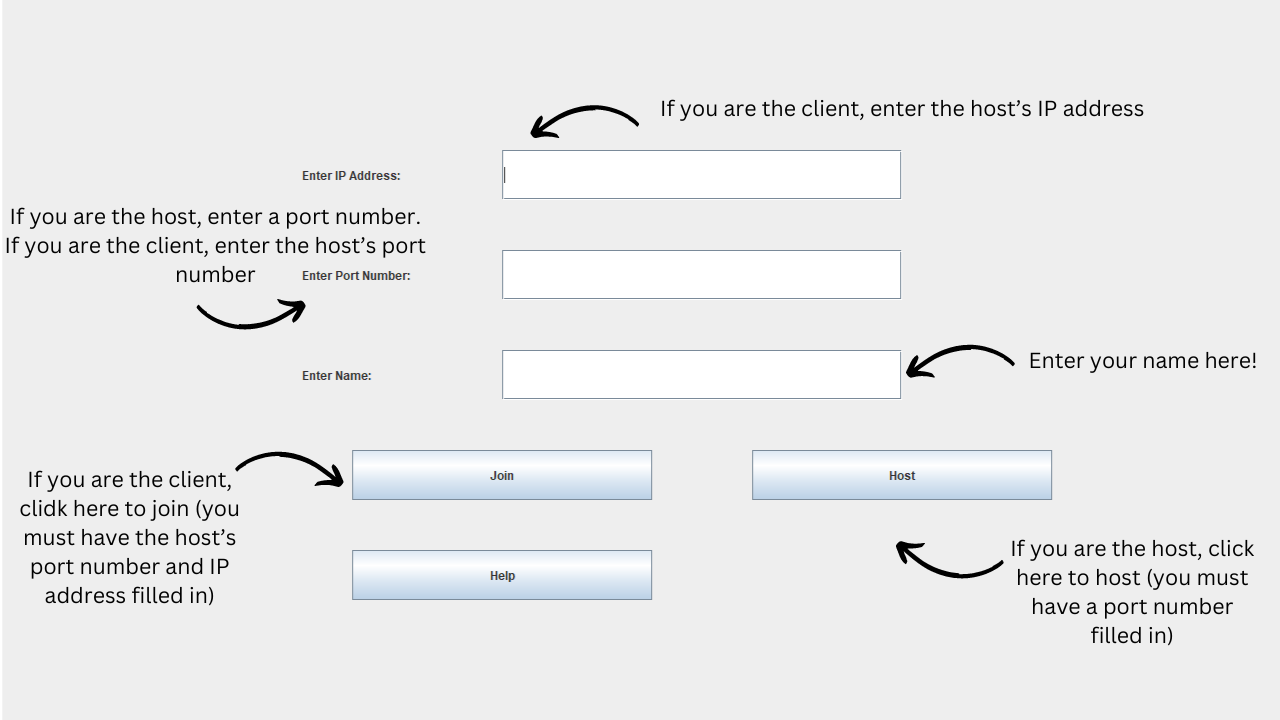
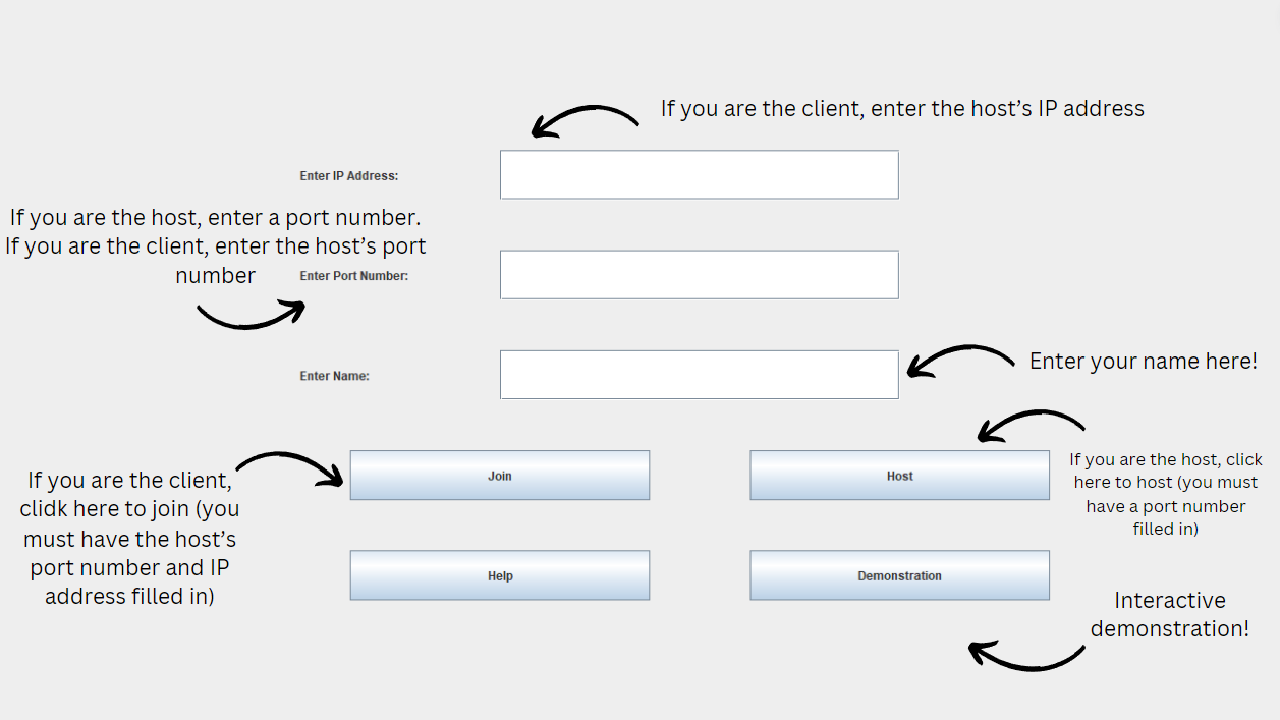
Added: help screens and text restrictions
edited ssmhelp screens, game help screen, interactive demo help screen. Added restrictions to port field and userfield

diff --git a/Connect4.java b/Connect4.java
@@ -14,7 +14,7 @@ public class Connect4 implements ActionListener, MouseListener, MouseMotionListe
 	themesPanel themePanel = new themesPanel();
 	JPanel SSMPanel = new JPanel();
 	ssmhelpscreenpanel helpSSMPanel = new ssmhelpscreenpanel();
-	JPanel helpGamePanel = new JPanel();
+	helpPanel helpGamePanel = new helpPanel();
 	winScreenPanel winPanel = new winScreenPanel();
 
 
@@ -412,6 +412,7 @@ public class Connect4 implements ActionListener, MouseListener, MouseMotionListe
 			intSeconds = intSeconds + 1;
 			dPanel.intSeconds = intSeconds;
 			if(intSeconds >= 6){
+				winPanel.blnWin = true;
 				theFrame.setContentPane(winPanel);
 				theFrame.pack();
 				theFrame.repaint();
@@ -486,6 +487,8 @@ public class Connect4 implements ActionListener, MouseListener, MouseMotionListe
 			winLabel.setText("The Winner is: " +strPlayer1);
 			intPlayer1Score++;
 			P1Score.setText(strPlayer1 + ": " +intPlayer1Score+"W");
+			winPanel.blnWin = true;
+			theBar.setVisible(false);
 			theFrame.setContentPane(winPanel);
 			theFrame.pack();
 			theFrame.repaint();
@@ -493,11 +496,15 @@ public class Connect4 implements ActionListener, MouseListener, MouseMotionListe
 			winLabel.setText("The Winner is: " +strPlayer2);
 			intPlayer2Score++;
 			P2Score.setText(strPlayer2 + ": " +intPlayer2Score+"W");
+			theBar.setVisible(false);
+			winPanel.blnWin = true;
 			theFrame.setContentPane(winPanel);
 			theFrame.pack();
 			theFrame.repaint();
 		}else if(calcs.checkResult().equals("tie")){
 			winLabel.setText("Tie! nobody wins");
+			theBar.setVisible(false);
+			winPanel.blnWin = false;
 			theFrame.setContentPane(winPanel);
 			theFrame.pack();
 			theFrame.repaint();
@@ -579,7 +586,28 @@ public class Connect4 implements ActionListener, MouseListener, MouseMotionListe
 				invalidLabel2.setText("Must input a valid Port Number");
 			}
 		}
-	
+		//Checks length of name
+		if(blnUser == false){
+			String strInput = userField.getText();
+			int intLength = strInput.length();
+			System.out.println(intLength);
+			if(intLength >12){
+				blnUser = true;
+				invalidLabel3.setVisible(true);
+				invalidLabel3.setText("Must be less than 12 characters");
+			}
+		}
+		//checks for Port length
+		if(blnPort == false){
+			String strInput = portField.getText();
+			int intLength = strInput.length();
+			System.out.println(intLength);
+			if(intLength >5){
+				blnUser = true;
+				invalidLabel2.setVisible(true);
+				invalidLabel2.setText("Must be less than 5 numbersh");
+			}
+		}
 		
 		System.out.println("Port: "+blnPort+" IP: "+blnIP+" USER: "+blnUser);
 		//if statments to check conditions and finally return boolean value 
@@ -767,13 +795,14 @@ public class Connect4 implements ActionListener, MouseListener, MouseMotionListe
 		
 		winPanel.add(playAgain);
 		
-		//------------------------------------------------HELP PANELS-------------------------------------------------//
+		//------------------------------------------------HELP PANEL-------------------------------------------------//
 		//Setting up panel and addtional Jcomponents of the panel
 		helpGamePanel.setPreferredSize(new Dimension(1280, 720));
 		helpGamePanel.setLayout(null);
-	
+
 		returnHomeMenu.setSize(300,50);
-		returnHomeMenu.setLocation(750,550);
+		returnHomeMenu.setLocation(100,450);
+		returnHomeMenu.setForeground(Color.BLUE);
 		helpGamePanel.add(returnHomeMenu);
 		returnHomeMenu.addActionListener(this);
 		

diff --git a/demoPanel.java b/demoPanel.java
@@ -19,20 +19,10 @@ public class demoPanel extends JPanel{
 	int intYellowY = 110;
 	int intDiffX = -5000;
 	int intDiffY = -5000;
-	boolean blnDiff = true;
 	boolean blnPressed = false;
-	boolean blnRed = true;
-	boolean blnYellow = true;
 	boolean blnPlaced = false;
-	
 	int intArrowX = 150;
 	int intDefArrowX = 0;
-	
-	//SSM variables
-	int intSSMX = 0;
-	int intSSMY = 0;
-	int intPlayer = 0;
-	boolean blnDraw = false;
 	
 	//Theme variables 
 	BufferedImage imgbackground = null;
@@ -48,23 +38,11 @@ public class demoPanel extends JPanel{
 	BufferedImage img4 = null;
 	String[] strTheme = {"","","","",""};
 	
-	//Game variables
-	int intTurn = 0;
 	int intBoard[][];
 	int intSeconds = 0;
 	
-	double dblTime = 0;
 	
 	boolean blnWin = false;
-	
-	
-	// Methods
-	// override how JComponent is painted 
-	// Set the Red and Yellow pieces to coordinates 
-	
-	//"Space Theme"
-	//"Standard Theme"
-	//"Christmas Theme"
 	
 	public void paintComponent(Graphics g){
 		//Sets Background 
@@ -227,7 +205,7 @@ public class demoPanel extends JPanel{
 	public demoPanel (String[] strTheme, int[][] intBoard){
 		this.strTheme = strTheme;
 		this.intBoard = intBoard;
-		System.out.println("loading new images");
+		//System.out.println("loading new images");
 		loadTheme(strTheme);
 	}
 }

diff --git a/winScreenPanel.java b/winScreenPanel.java
@@ -8,16 +8,28 @@ import javax.imageio.*;
 public class winScreenPanel extends JPanel{
 	// Properties 
 	BufferedImage imgBackground = null;
+	BufferedImage imgBackground1 = null;
+	
+	boolean blnWin = false; 
 
-	// Methods
-	// override how JComponent is painted 
+	
 	public void paintComponent(Graphics g){
-		g.drawImage(imgBackground, 0,0, null);
+		if(blnWin == true){
+			g.drawImage(imgBackground, 0,0, null);
+		}
+		if(blnWin == false){
+			g.drawImage(imgBackground1, 0,0, null);
+		}
 	}
 	//Constructor
-	public winScreenPanel (){
+	public winScreenPanel(){
 		try{
 			imgBackground = ImageIO.read(new File("resources/winscreen.png"));
+		}catch (IOException e){
+			System.out.println("cannot load image");
+		}
+		try{
+			imgBackground1 = ImageIO.read(new File("resources/tie.png"));
 		}catch (IOException e){
 			System.out.println("cannot load image");
 		}

diff --git a/calculations.java b/calculations.java
@@ -255,7 +255,6 @@ class calculations{
 		return "0";
 	}
 	//Load Interactive Help Demo 
-
 	public int[][] loadDemoBoard(){
 		InputStreamReader irs = new InputStreamReader(System.in); 
 		BufferedReader kb = new BufferedReader(irs);
@@ -267,7 +266,6 @@ class calculations{
 			String[] strSplit;
 			for (int intColumn =0; intColumn < 6; intColumn++){
 				strLine = boardReader.readLine();
-				System.out.println(strLine);
 				strSplit = strLine.split(",");
 				for (int introw = 0; introw <7; introw++){
 					Demoboard[introw][intColumn] = Integer.parseInt(strSplit[introw]);
@@ -277,7 +275,6 @@ class calculations{
 		}catch(IOException e){
 			e.printStackTrace();
 		}
-		printBoard(Demoboard);
 		return Demoboard;
 	}
 	

diff --git a/helpPanel.java b/helpPanel.java
@@ -1,0 +1,27 @@
+import java.awt.*;
+import javax.swing.*;
+import java.awt.image.*;
+import java.io.*;
+import javax.imageio.*;
+
+
+public class helpPanel extends JPanel{
+	// Properties 
+	BufferedImage imgBackground = null;
+	
+	boolean blnWin = false; 
+
+	
+	public void paintComponent(Graphics g){
+			g.drawImage(imgBackground, 0,0, null);
+	}
+	//Constructor
+	public helpPanel(){
+		try{
+			imgBackground = ImageIO.read(new File("resources/helpscreen.png"));
+		}catch (IOException e){
+			System.out.println("cannot load image");
+		}
+
+	}
+}

diff --git a/ConnectPanel.java b/ConnectPanel.java
@@ -257,7 +257,7 @@ public class ConnectPanel extends JPanel{
 	 */
 	public ConnectPanel (String[] strTheme){
 		this.strTheme = strTheme;
-		System.out.println("loading new images");
+		//System.out.println("loading new images");
 		loadTheme(strTheme);
 	}
 }
